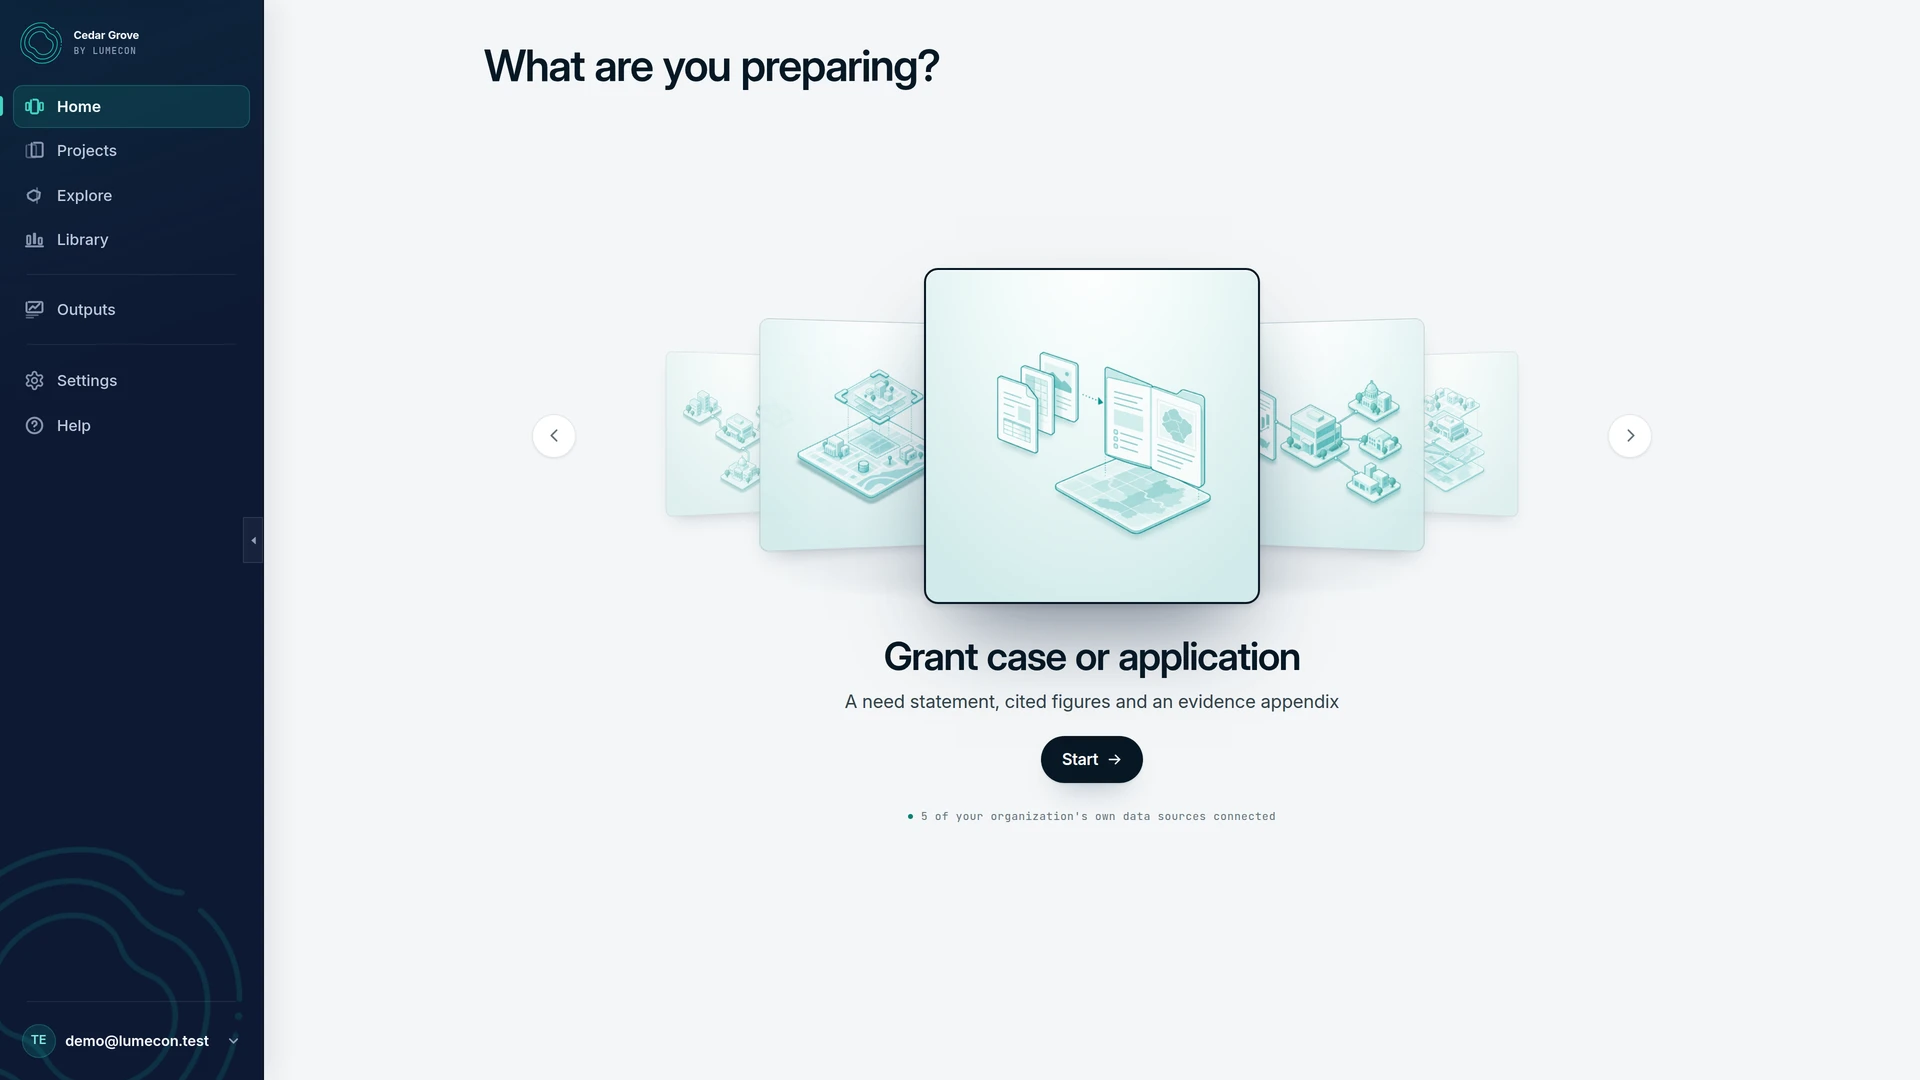
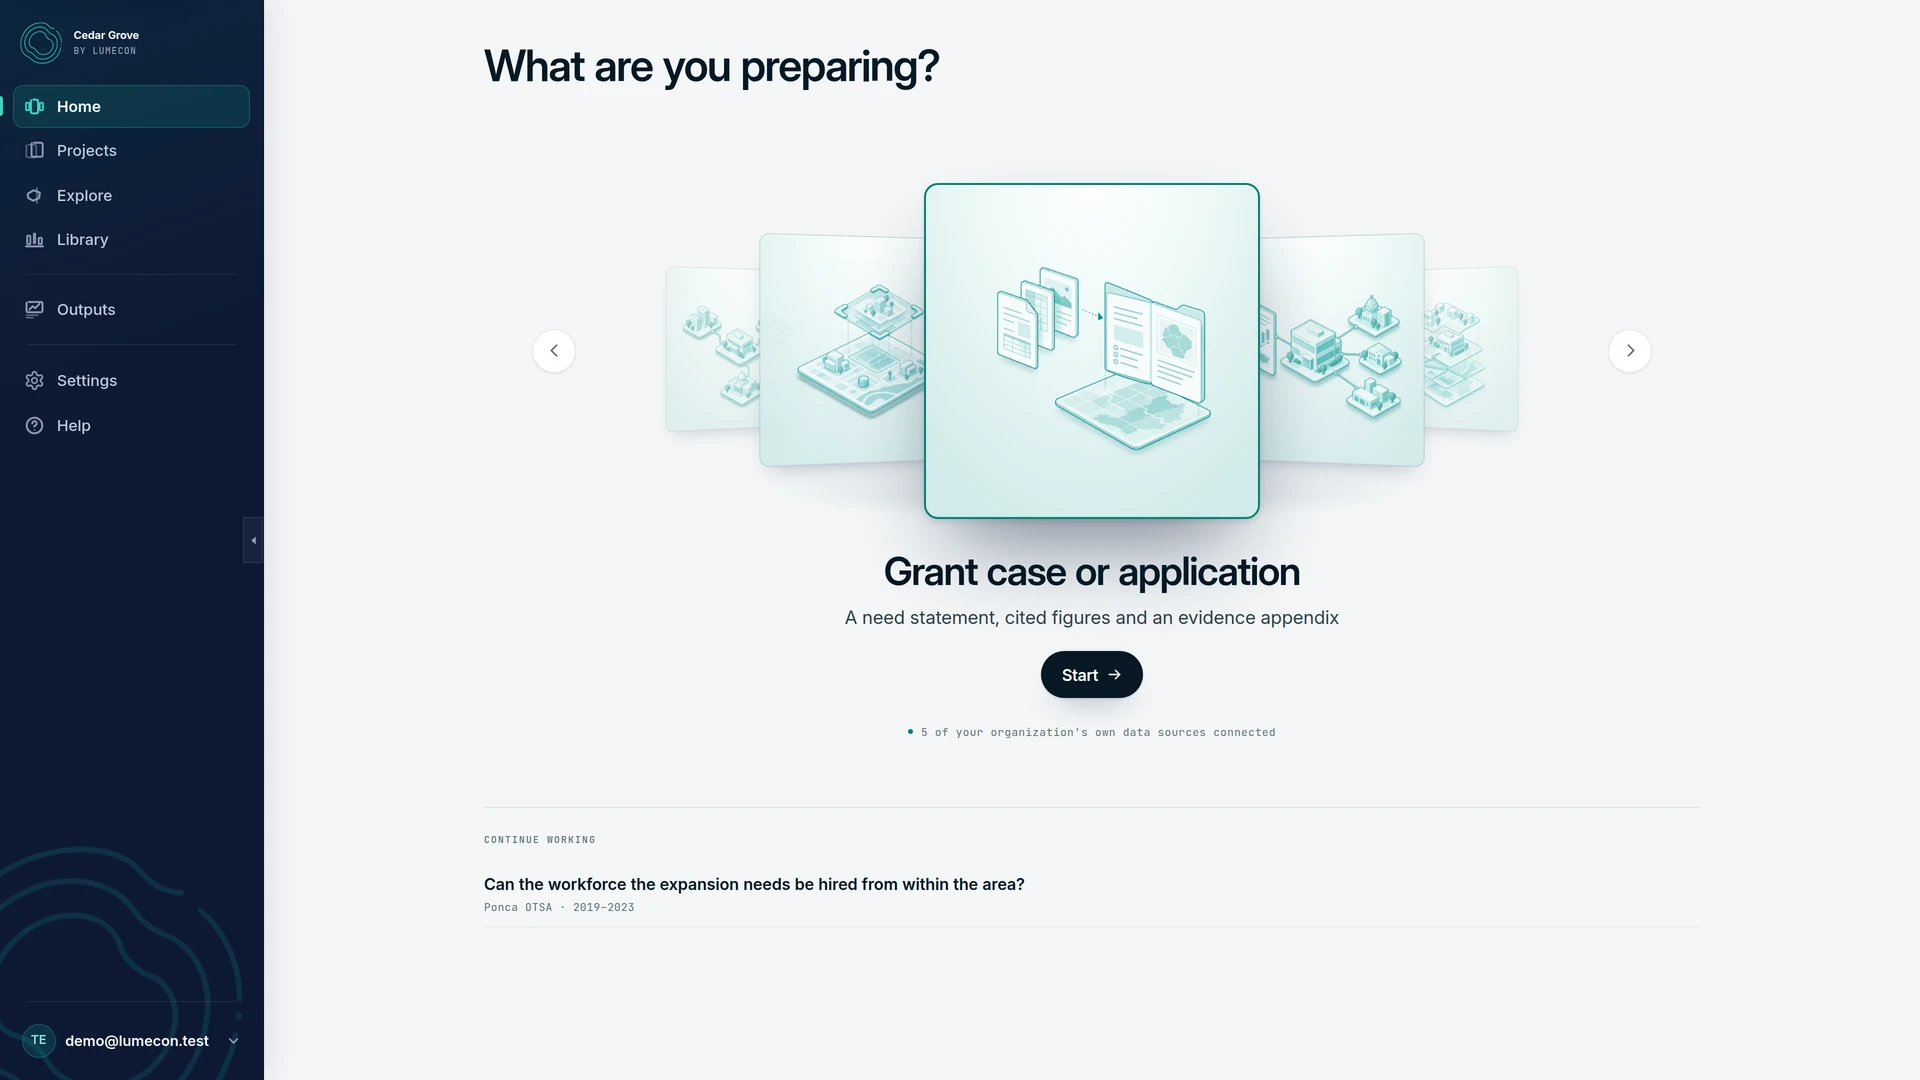
Put the hero capture back in the top-right column
Every product page on this site sets its hero as a 4.5fr column of words
beside a 7.5fr column holding the capture, spanning the rows: see
.cedarpg-hero in cedar-page.css. This page had that shape and lost it
last pass, when the capture went full width under the words. A hero that
composes differently from the other product pages reads as a different
site rather than as emphasis, so it is back on the house grid, with the
same teal frame and shadow /cedar uses.

The captures are refreshed: the selected carousel plate is outlined in
teal rather than ink, and Projects shows the workspace's example project,
which the app had been hiding.

Gates: astro check 0 errors / 0 warnings / 0 hints, build, 48 smoke
tests (with PUBLIC_APP_URL and PUBLIC_API_URL set, which two of them
assert and this container does not carry).

Claude-Session: https://claude.ai/code/session_01LF9P2JS2Kmunvcm6jwdVn8

diff --git a/src/styles/grove-page.css b/src/styles/grove-page.css
@@ -24,19 +24,16 @@
   --gf-amber: #8a5309;
 }
 
-/* ---------- hero: dark navy, the product first ---------- */
-/* One column, and the capture under the words rather than beside them.
-   
-   It was a two-column grid: the headline in a 4.4fr column with an
-   interactive evidence map in a 7.6fr column beside it. The map is gone (see
-   the note in the hero markup) and what stands there now is the Home
-   carousel, which is the page's first and strongest product composition. A
-   hero image in half a column is not a hero. Full content width, in the same
-   1920x1080 frame the two compositions below use, so all three read as one
-   set. */
+/* ---------- hero: dark navy, the product top right ---------- */
+/* The site's hero, not a new one. Every product page here puts the words in a
+   4.5fr column and the capture in a 7.5fr column beside them, spanning the
+   rows: see .cedarpg-hero in cedar-page.css. This page had that shape, lost it
+   for a revision when the capture went full width under the words, and has it
+   back. A hero that composes differently from the other product pages reads as
+   a different site, not as emphasis. */
 .grovepg-hero {
   position: relative;
-  padding: clamp(7.5rem, 13vh, 10rem) 0 clamp(3.5rem, 7vw, 5rem);
+  padding: clamp(7.5rem, 13vh, 10rem) 0 clamp(4rem, 8vw, 6rem);
   background:
     linear-gradient(125deg, rgba(15, 181, 165, 0.16), transparent 42%),
     linear-gradient(145deg, #0b1730 0%, #071126 62%, #07353b 100%);
@@ -44,6 +41,16 @@
 .grovepg-hero .meth-w {
   position: relative;
   z-index: 1;
+  display: grid;
+  grid-template-columns: minmax(0, 4.5fr) minmax(28rem, 7.5fr);
+  column-gap: clamp(3rem, 6vw, 6rem);
+  align-items: center;
+}
+.grovepg-hero .h-kicker,
+.grovepg-hero .meth-hero__title,
+.grovepg-hero .meth-hero__lede,
+.grovepg-hero .grovepg-cta {
+  grid-column: 1;
 }
 .grovepg-hero .h-kicker,
 .grovepg-hero .meth-hero__title,
@@ -54,10 +61,13 @@
   color: #73e2d6;
 }
 .grovepg-hero .meth-hero__title {
-  max-width: 20ch;
+  max-width: 15ch;
+  font-size: clamp(2.5rem, 4.2vw, 4rem);
+  line-height: 1.02;
 }
 .grovepg-hero .meth-hero__lede {
-  max-width: 62ch;
+  max-width: 54ch;
+  margin-bottom: 1.6rem;
   color: rgba(233, 242, 250, 0.82);
 }
 .grovepg-hero .grovepg-cta {
@@ -72,20 +82,39 @@
   border-color: rgba(115, 226, 214, 0.6);
   background: rgba(7, 60, 59, 0.62);
 }
-/* The capture itself. A light frame on the dark ground, so the screenshot
-   reads as a held object rather than as a hole cut in the band. */
 .grovepg-hero__shot {
-  margin: clamp(2.5rem, 5vw, 3.5rem) 0 0;
-  border: 1px solid rgba(255, 255, 255, 0.16);
-  border-radius: var(--radius-frame);
+  grid-column: 2;
+  grid-row: 1 / 5;
   overflow: hidden;
-  background: rgba(255, 255, 255, 0.04);
-  box-shadow: 0 40px 80px -40px rgba(0, 0, 0, 0.75);
+  margin: 0;
+  border: 1px solid rgba(95, 217, 204, 0.38);
+  border-radius: var(--radius-frame);
+  background: #f8fbfb;
+  box-shadow:
+    inset 0 1px 0 rgba(255, 255, 255, 0.9),
+    0 0 0 1px rgba(15, 181, 165, 0.08),
+    0 40px 96px -38px rgba(0, 0, 0, 0.9);
 }
 .grovepg-hero__shot img {
   display: block;
   width: 100%;
   height: auto;
+}
+@media (max-width: 980px) {
+  .grovepg-hero .meth-w {
+    grid-template-columns: 1fr;
+  }
+  .grovepg-hero .h-kicker,
+  .grovepg-hero .meth-hero__title,
+  .grovepg-hero .meth-hero__lede,
+  .grovepg-hero .grovepg-cta,
+  .grovepg-hero__shot {
+    grid-column: 1;
+  }
+  .grovepg-hero__shot {
+    grid-row: auto;
+    margin-top: 1.4rem;
+  }
 }
 
 /* ---------- the provenance strip ---------- */
